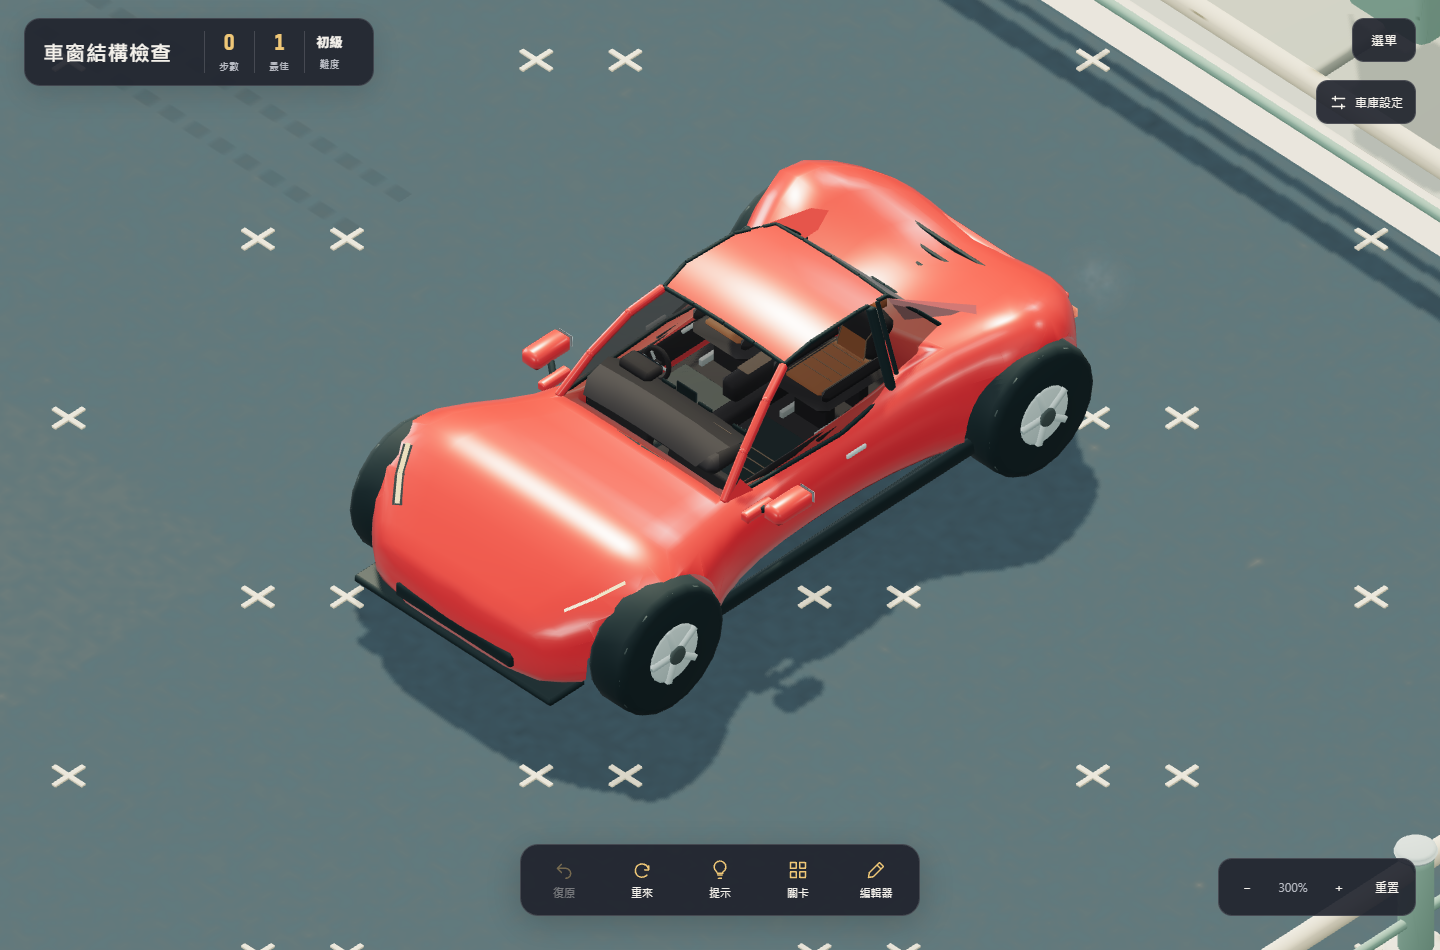
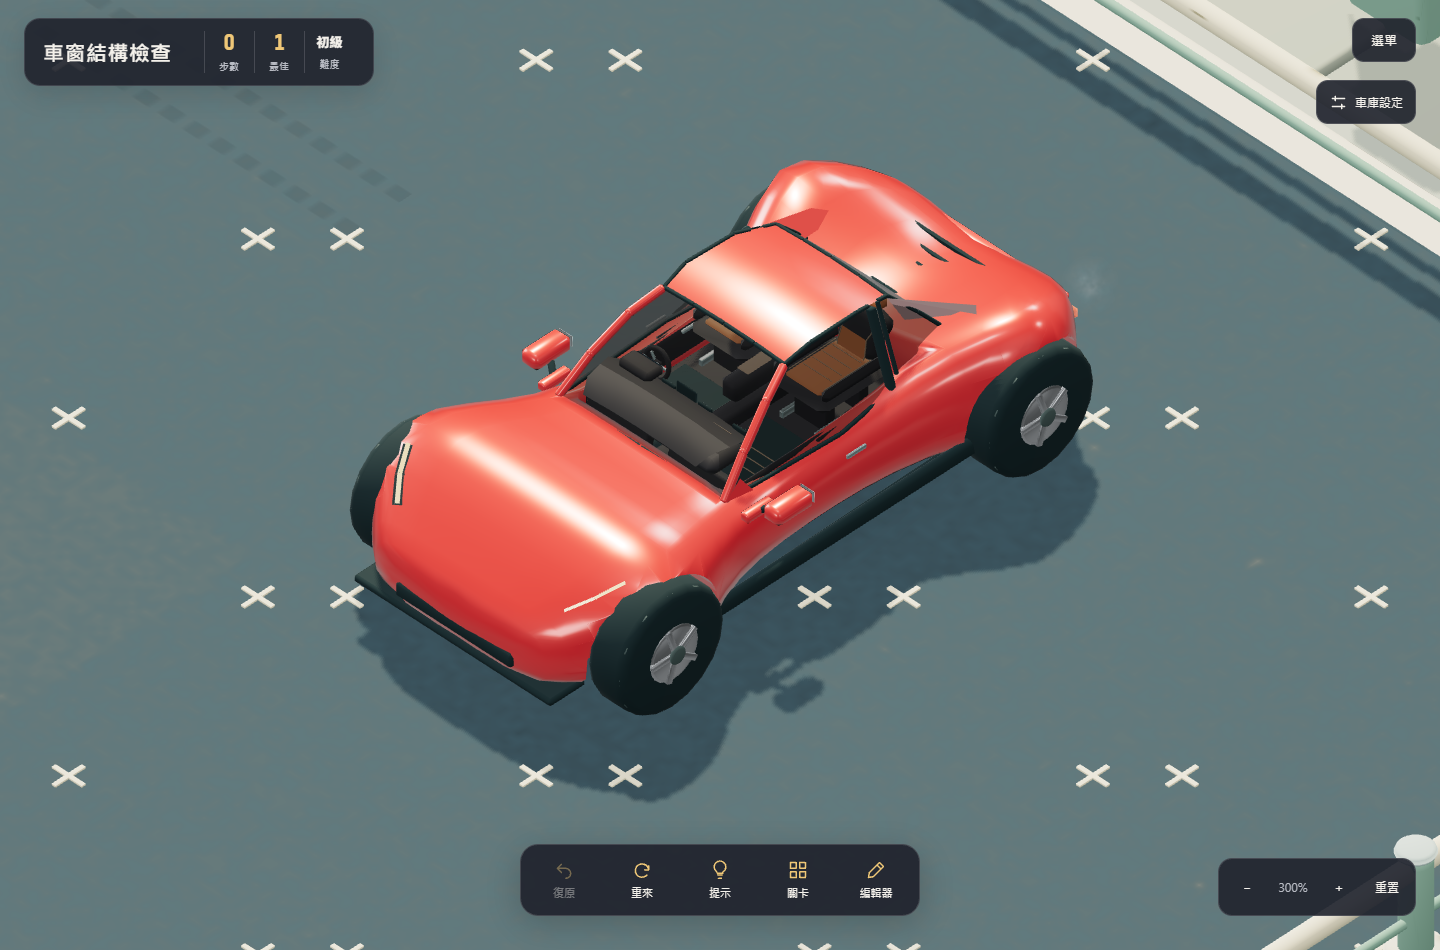
Layer vehicle paint and retain metal rubber response in batched finishes

diff --git a/src/garageMaterials.js b/src/garageMaterials.js
@@ -1,5 +1,6 @@
 import * as THREE from "three";
 import { mergeGeometries } from "three/addons/utils/BufferGeometryUtils.js";
+import { surfaceShader } from './vehicleFinish.js';
 
 export function batchColoredMeshes(
   root,
@@ -9,6 +10,7 @@ export function batchColoredMeshes(
     metalness = 0.12,
     name = "Batched trim",
     atlas = null,
+    surface = null,
   } = {},
 ) {
   root.updateMatrixWorld(true);
@@ -79,6 +81,12 @@ export function batchColoredMeshes(
       colors[i + 2] = color.b * (sourceColors?.getZ(i / 3) ?? 1);
     }
     geometry.setAttribute("color", new THREE.BufferAttribute(colors, 3));
+    if (surface) {
+      const response = surface(mesh.material);
+      const values = new Float32Array(geometry.getAttribute('position').count * 2);
+      for (let i = 0; i < values.length; i += 2) values.set(response, i);
+      geometry.setAttribute('surfaceResponse', new THREE.BufferAttribute(values, 2));
+    }
     geometries.push(geometry);
   }
   const geometry = mergeGeometries(geometries);
@@ -92,6 +100,10 @@ export function batchColoredMeshes(
     metalness,
   });
   material.name = name;
+  if (surface) {
+    material.onBeforeCompile = shader => surfaceShader(shader);
+    material.customProgramCacheKey = () => 'batched-surface-response-v1';
+  }
   if (atlas) {
     material.map = atlas;
     material.roughnessMap = atlas;
@@ -256,6 +268,15 @@ export function prepareWheels(root, length) {
       );
     }
     geometry.setAttribute("wheelPivot", new THREE.BufferAttribute(pivots, 3));
+    const colors = geometry.getAttribute('color');
+    const surfaces = new Float32Array(position.count * 2);
+    for (let i = 0; i < position.count; i++) {
+      // Authored wheel vertex colours separate bright alloy from dark rubber.
+      const alloy = colors && Math.max(colors.getX(i), colors.getY(i), colors.getZ(i)) > .3;
+      surfaces.set(alloy ? [.24, .9] : [.84, 0], i * 2);
+      if (alloy) colors.setXYZ(i, .58, .61, .64);
+    }
+    geometry.setAttribute('wheelSurface', new THREE.BufferAttribute(surfaces, 2));
     geometry.computeBoundingBox();
     geometry.computeBoundingSphere();
     mesh.geometry = geometry;
@@ -273,6 +294,7 @@ export function rollingMaterial(
   compression = { value: [0, 0] },
 ) {
   material.onBeforeCompile = (shader) => {
+    if (!material.isMeshDepthMaterial) surfaceShader(shader, 'wheelSurface');
     shader.uniforms.wheelAngle = angle;
     shader.uniforms.tyreCompression = compression;
     shader.vertexShader =
@@ -295,6 +317,6 @@ export function rollingMaterial(
       objectNormal.xy=vec2(nc*objectNormal.x-ns*objectNormal.y,ns*objectNormal.x+nc*objectNormal.y);`,
     );
   };
-  material.customProgramCacheKey = () => "rolling-wheels-v2";
+  material.customProgramCacheKey = () => "rolling-wheels-v3";
   return material;
 }

diff --git a/src/garageScene.js b/src/garageScene.js
@@ -24,6 +24,7 @@ import {
 } from "./vehicleDynamics.js";
 import { createRenderProfiler } from "./renderProfiler.js";
 import { cacheLocalTransforms } from "./sceneTransforms.js";
+import { configureVehiclePaint, vehicleTrimSurface } from './vehicleFinish.js';
 import {
   DEFAULT_VIEW,
   ORTHOGRAPHIC_DISTANCE,
@@ -1167,6 +1168,7 @@ export function createGarageScene(canvas, getProps, callbacks) {
               "Rolling wheels",
             ].includes(mesh.material.name) &&
             !mesh.material.name.startsWith("Paint"),
+          { surface: vehicleTrimSurface },
         );
         const lamps = [],
           tailLamps = [],
@@ -1181,13 +1183,7 @@ export function createGarageScene(canvas, getProps, callbacks) {
             const material = object.material;
             if (material.name.startsWith("Paint")) {
               paints.push(material);
-              material.color.set(car.color);
-              material.roughness = 0.3;
-              material.metalness = 0.06;
-              if ("clearcoat" in material) {
-                material.clearcoat = quality === QUALITY.high ? 0.55 : 0;
-                material.clearcoatRoughness = 0.2;
-              }
+              configureVehiclePaint(material, vehicleModel(car).kind, settings.quality, car.color);
             }
             if (material.name === "Automotive glass") {
               windows.push(material);
@@ -1761,13 +1757,7 @@ export function createGarageScene(canvas, getProps, callbacks) {
       quality = QUALITY[settings.quality] ?? QUALITY.high;
       for (const item of groups.values())
         for (const paint of item.paints) {
-          if ("clearcoat" in paint) {
-            const coat = quality === QUALITY.high ? 0.55 : 0;
-            if (paint.clearcoat !== coat) {
-              paint.clearcoat = coat;
-              paint.needsUpdate = true;
-            }
-          }
+          configureVehiclePaint(paint, item.model, settings.quality, item.car.color);
         }
       for (const item of groups.values())
         for (const glass of item.windows)
@@ -1823,6 +1813,9 @@ export function createGarageScene(canvas, getProps, callbacks) {
           dir: i.car.dir,
           len: i.car.len,
           position: i.group.position.toArray(),
+          finish: i.paints.map(m => ({ physical: m.isMeshPhysicalMaterial === true,
+            roughness: m.roughness, metalness: m.metalness,
+            clearcoat: m.clearcoat, clearcoatRoughness: m.clearcoatRoughness })),
           glazing: i.windows.map((m) => ({
             physical: m.isMeshPhysicalMaterial === true,
             transmission: m.transmission,

diff --git a/src/vehicleFinish.js b/src/vehicleFinish.js
@@ -1,0 +1,33 @@
+// Preserve a common toy-car palette while giving each coating its own response.
+export function configureVehiclePaint(material, kind, quality, color) {
+  const commercial = ['coach', 'schoolbus', 'camper', 'delivery'].includes(kind);
+  const coat = quality === 'saver' ? 0 : quality === 'high' ? .92 : .55;
+  const changed = (material.clearcoat > 0) !== (coat > 0);
+  material.color.set(color);
+  material.metalness = commercial ? .035 : kind === 'racer' ? .16 : .12;
+  material.roughness = commercial ? .32 : .27;
+  material.envMapIntensity = commercial ? 1 : 1.12;
+  material.clearcoat = coat;
+  material.clearcoatRoughness = commercial ? .17 : .11;
+  if (changed) material.needsUpdate = true;
+}
+
+export function vehicleTrimSurface(material) {
+  if (material.name === 'Wheel hubs') return [.22, .92];
+  if (material.name === 'Tyre rubber') return [.86, 0];
+  if (material.name === 'Smoked panel glass') return [.16, .04];
+  if (material.name === 'Warm white trim') return [.56, 0];
+  return [material.roughness ?? .6, material.metalness ?? 0];
+}
+
+// One batch can retain rubber and metal instead of averaging their response.
+export function surfaceShader(shader, attribute = 'surfaceResponse') {
+  shader.vertexShader = `attribute vec2 ${attribute};\nvarying vec2 finishResponse;\n` + shader.vertexShader;
+  shader.vertexShader = shader.vertexShader.replace('#include <begin_vertex>',
+    `#include <begin_vertex>\nfinishResponse=${attribute};`);
+  shader.fragmentShader = 'varying vec2 finishResponse;\n' + shader.fragmentShader;
+  shader.fragmentShader = shader.fragmentShader.replace('#include <roughnessmap_fragment>',
+    '#include <roughnessmap_fragment>\nroughnessFactor=finishResponse.x;');
+  shader.fragmentShader = shader.fragmentShader.replace('#include <metalnessmap_fragment>',
+    '#include <metalnessmap_fragment>\nmetalnessFactor=finishResponse.y;');
+}

diff --git a/docs/vehicle-finish-2026-10-06/README.md b/docs/vehicle-finish-2026-10-06/README.md
@@ -1,0 +1,30 @@
+# Layered vehicle paint and retained surface response
+
+Passenger cars now use a slightly metallic pigmented base under a smoother
+clearcoat. The racer has a stronger metallic base; commercial vehicles retain
+a less metallic and slightly rougher utility coating. High/standard/saver
+clearcoat strengths are 0.92/0.55/0, with quality changes applied live.
+
+Trim batching retains roughness and metallic response per vertex instead of
+averaging polished metal, rubber and plastic into one material. Handles, rails
+and grilles use satin silver; rubber remains rough and nonmetallic. Authored
+wheel colours identify alloy versus rubber before rolling: the alloy is neutral
+silver, with its own roughness and metallic response. Both remain in the same
+rolling batch, including the existing suspension and shadow deformation.
+
+This is a stylized PBR coating, not a multilayer spectral paint simulation or
+dynamic ray-traced reflection. It uses the existing environment and lights,
+without new geometry or additional render passes.
+
+Verification: all nine model close-ups, actual right-button orbit, vehicle drag
+and undo, and mobile layout passed (`../glazing-structure-2026-10-06/`). The
+nine-car orbit fixture retained 100 draw calls and 206,480 triangles. GPU timer
+medians were 20.33 ms high and 19.86 ms standard in that fixture; these are not
+physical-phone FPS results or a performance-improvement claim.
+
+`verify-vehicle-finish.mjs` exercises actual quality buttons in day, sunset and
+neon, verifies runtime coating parameters and preserved glass clarity, and
+records no runtime/console errors. `npm test` checks all nine models' retained
+metal response, distinct wheel/rubber response, geometry and quality transitions.
+Production build replays all 40 official solutions. `offline.json` records final
+PWA update/cache recovery, offline model loading and preserved game progress.
